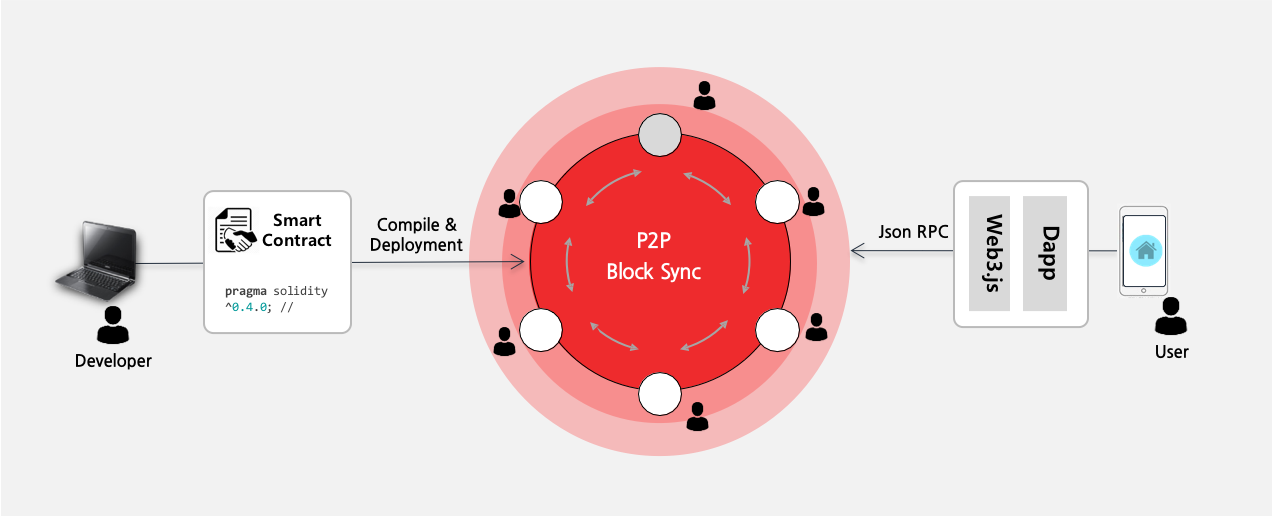
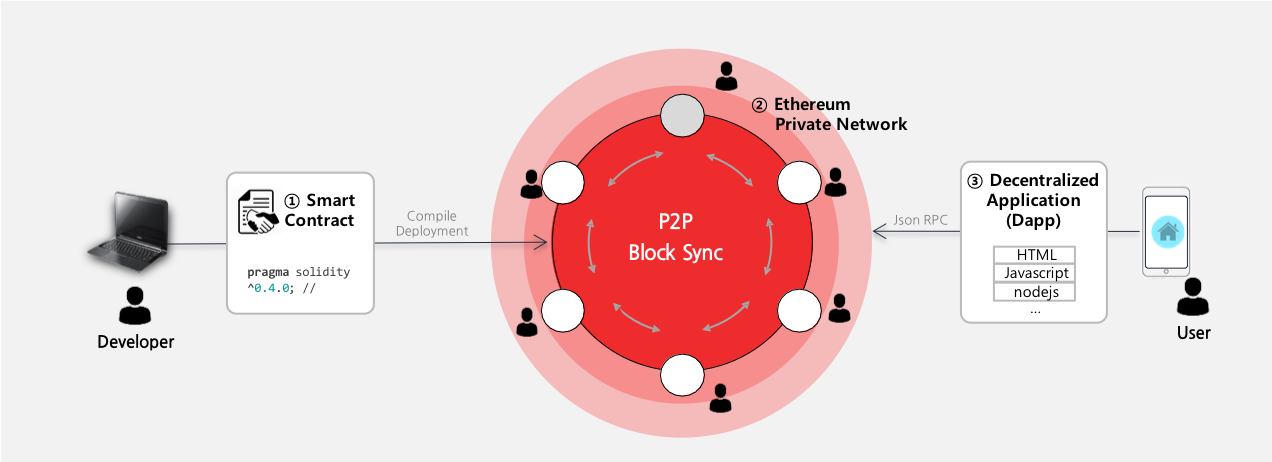
init

Changed region(s): [[0.0307, 0.0909, 0.9505, 0.9697], [0.7665, 0.697, 0.8585, 0.7273], [0.4292, 0.1515, 0.4599, 0.2121]]

diff --git a/index.html b/index.html
@@ -141,7 +141,7 @@
 
                 <div class="col-lg-12 col-xl-12 text-center">
                     <div class="fig-1 rounded">
-                        <h5>Full Stack Ethereum Private Network</h5>
+                        <h5> Three Things we can learn from this course</h5>
                         <img src="assets/images/fig_01_vr.png" alt="" class="img-fluid fig-mobile" />
                         <img src="assets/images/fig_01.png" alt="" class="img-fluid fig-web" />
                     </div>
@@ -151,19 +151,19 @@
                 <div class="col-lg-12 mt-3">
                     <div class="row">
                         <div class="col-sm-4 mt-5 mt-lg-0 text-center text-lg-left">
-                            <span class="d-block font-alt font-w-600 mt-3 text-medium text-uppercase text-red"> Mission1. The First Smart Contract</span>
+                            <span class="d-block font-alt font-w-600 mt-3 text-medium text-uppercase text-red"> 1. Smart Contract</span>
                             <p class="mb-0 mt-2 text-medium">
                                 Understand the basic concept of BlockChain with simple smart contracts and Dapp </p>
                         </div>
                         <!-- //.col-sm-4 -->
                         <div class="col-sm-4 mt-5 mt-lg-0 text-center text-lg-left">
-                            <span class="d-block font-alt font-w-600 mt-3 text-medium text-uppercase text-red"> Mission2. Ethereum Private Network </span>
+                            <span class="d-block font-alt font-w-600 mt-3 text-medium text-uppercase text-red"> 2. Ethereum Private Network </span>
                             <p class="mb-0 mt-2 text-medium">
                                 Build a private network and try to send transactions each other</p>
                         </div>
                         <!-- //.col-sm-4 -->
                         <div class="col-sm-4 mt-5 mt-lg-0 text-center text-lg-left">
-                            <span class="d-block font-alt font-w-600 mt-3 text-medium text-uppercase text-red"> Mission3. How to utilize blockchain  </span>
+                            <span class="d-block font-alt font-w-600 mt-3 text-medium text-uppercase text-red"> 3. How to utilize blockchain  </span>
                             <p class="mb-0 mt-2 text-medium">
                                 Blockchain monitoring Tool, Dapp, integration of Bigdata and Blockchain wallet, etc....                         </p>
                         </div>
